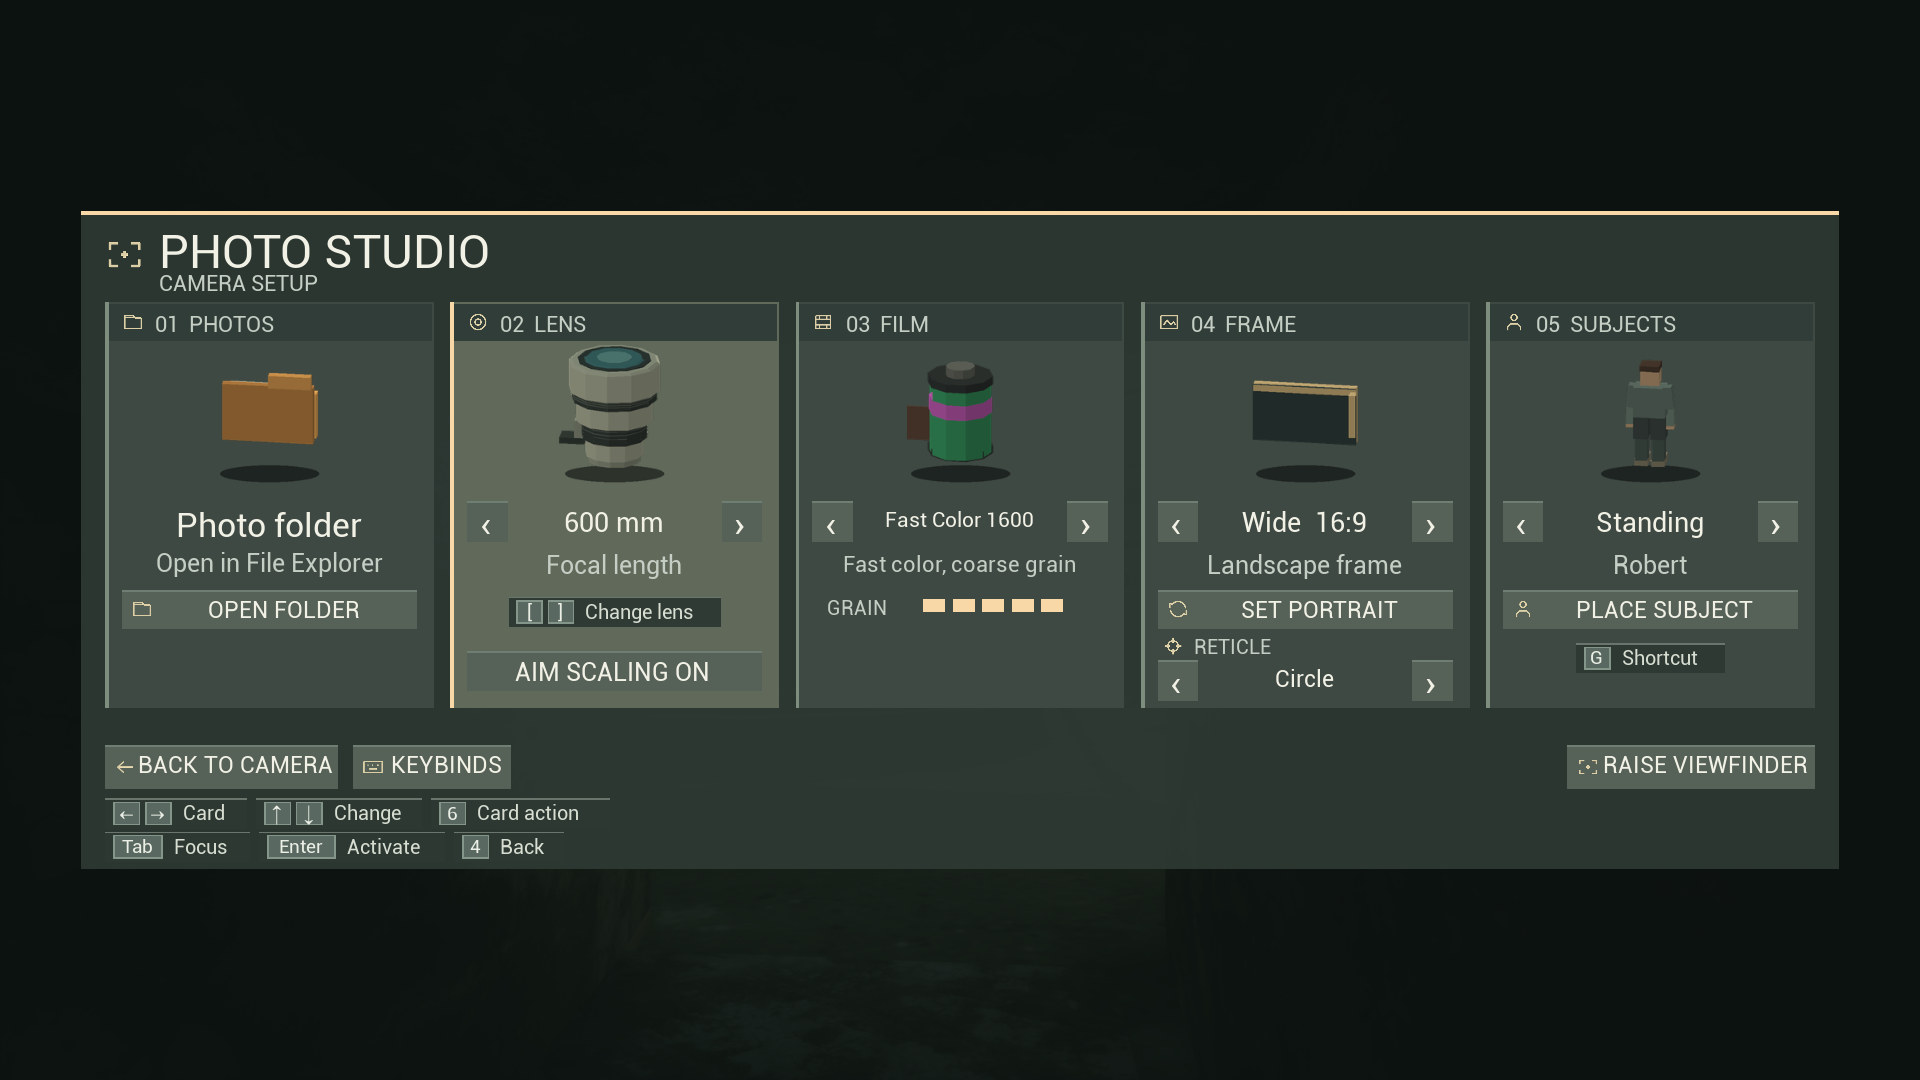
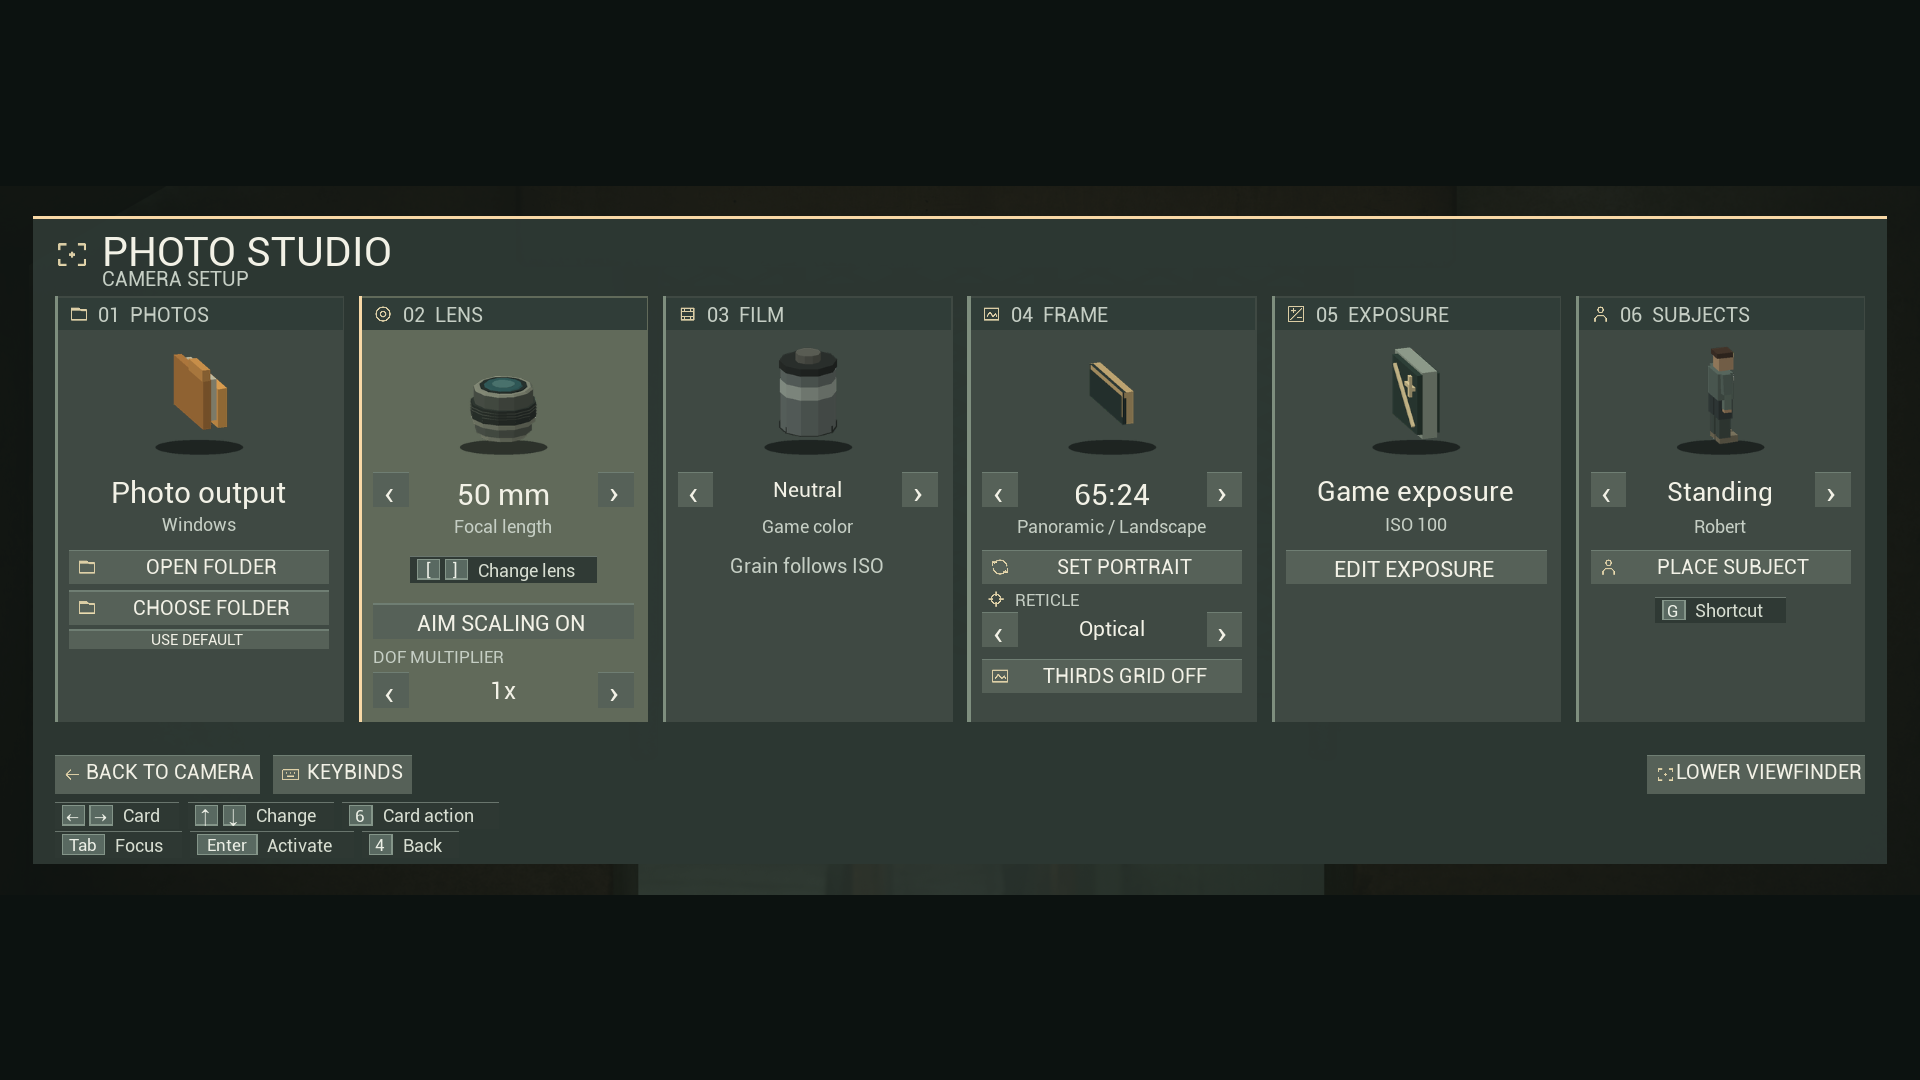
Prepare Photo Camera 1.1.0 release packages and guide

Changed region(s): [[0.0, 0.1833, 1.0, 0.8556], [0.4688, 0.7944, 0.5, 0.825]]

diff --git a/installer/Build-Release.py b/installer/Build-Release.py
@@ -1,0 +1,73 @@
+"""Package the release using the already-tested, bundled UE4SS archive."""
+
+import argparse
+import hashlib
+import re
+import zipfile
+from pathlib import Path
+
+
+def digest(data):
+    return hashlib.sha256(data).hexdigest().upper()
+
+
+def archive(path, entries):
+    with zipfile.ZipFile(path, 'w', compression=zipfile.ZIP_DEFLATED, compresslevel=9) as output:
+        for name, data in sorted(entries.items()):
+            info = zipfile.ZipInfo(name, (2026, 11, 11, 0, 0, 0))
+            info.compress_type = zipfile.ZIP_DEFLATED
+            info.external_attr = 0o100644 << 16
+            output.writestr(info, data, compresslevel=9)
+    with zipfile.ZipFile(path) as result:
+        assert result.testzip() is None, path
+        assert set(result.namelist()) == set(entries), path
+        for name, data in entries.items():
+            assert result.read(name) == data, name
+
+
+def main():
+    parser = argparse.ArgumentParser(description=__doc__)
+    parser.add_argument('--loader-bundle', type=Path, required=True,
+                        help='An existing installer ZIP containing the tested UE4SS archive')
+    parser.add_argument('--output', type=Path, required=True)
+    args = parser.parse_args()
+    root = Path(__file__).resolve().parents[1]
+    mod = root / 'ue4ss/Mods/VHOLUMEPhotoCamera'
+    files = sorted(p for p in mod.rglob('*') if p.is_file())
+    assert len(files) == 102, 'Unexpected release payload'
+    assert not any(p.is_symlink() or p.suffix.lower() not in ('.lua', '.png', '.mp4', '.ps1', '.txt') for p in files)
+    assert 'Photo Camera 1.1.0 ready' in (mod / 'Scripts/main.lua').read_text(encoding='utf-8')
+    args.output.mkdir(parents=True, exist_ok=True)
+    entries = {p.relative_to(root).as_posix(): p.read_bytes() for p in files}
+    entries['README.md'] = (root / 'GUIDE.md').read_bytes()
+    manual = args.output / 'VHOLUME-Photo-Camera.zip'
+    archive(manual, entries)
+
+    script_path = root / 'installer/Install-Photo-Camera.ps1'
+    script = script_path.read_text(encoding='utf-8-sig')
+    script, count = re.subn(r"(?m)^\$modHash = '[A-Fa-f0-9]{64}'",
+                            lambda _: "$modHash = '" + digest(manual.read_bytes()) + "'", script)
+    assert count == 1
+    loader_name = 'UE4SS_v3.0.1-1011-gb50986bd.zip'
+    with zipfile.ZipFile(args.loader_bundle) as source:
+        loader = source.read(loader_name)
+    assert digest(loader) in script, 'Bundled UE4SS hash mismatch'
+    script_path.write_bytes(script.encode('utf-8-sig'))
+    installer_entries = {
+        'Install Photo Camera.cmd': (root / 'installer/Install Photo Camera.cmd').read_bytes(),
+        'Install-Photo-Camera.ps1': script.encode('utf-8-sig'),
+        loader_name: loader,
+        manual.name: manual.read_bytes(),
+        'README.md': entries['README.md'],
+    }
+    installer = args.output / 'VHOLUME-Photo-Camera-Installer.zip'
+    archive(installer, installer_entries)
+    sums = ''.join(f'{digest(p.read_bytes())}  {p.name}\n' for p in (manual, installer))
+    (args.output / 'SHA256SUMS.txt').write_text(sums, encoding='utf-8')
+    (args.output / 'RELEASE-NOTES.md').write_bytes((root / 'RELEASE-NOTES.md').read_bytes())
+    print(f'Verified {len(files)} mod files, both archives, and the bundled UE4SS hash.')
+    print(sums, end='')
+
+
+if __name__ == '__main__':
+    main()

diff --git a/GUIDE.md b/GUIDE.md
@@ -1,0 +1,98 @@
+# VHOLUME Photo Camera Guide
+
+**Version 1.1.0** · Windows
+
+## Install and switch back
+
+Close VHOLUME. Extract the installer ZIP and run **Install Photo Camera.cmd**. It detects the Steam installation and moves any existing Photo Camera folder into a dated backup next to the UE4SS Mods folder.
+
+For a manual install, back up the existing mod outside **Mods**. Copy **VHOLUMEPhotoCamera** from the manual ZIP’s **ue4ss\Mods** into the game’s **VHOLUME\Binaries\Win64\ue4ss\Mods**. This update replaces the existing Photo Camera mod.
+
+To switch back, close the game, move the current **VHOLUMEPhotoCamera** folder out of **Mods**, then move the dated backup into **Mods** and rename it **VHOLUMEPhotoCamera**. You can also reinstall any earlier build from its ZIP. This version saves keybinds and options in **VHOLUMEPhotoCamera.keys.input-preview** and imports compatible settings from earlier previews or the stable build on first use.
+
+## Optical finder
+
+The raised finder reserves space on both sides for camera readouts, including at 16:9. At 1920 × 1080, the 3:2 frame is 1380 × 920 pixels and the 16:9 frame is 1440 × 810 pixels. A thin exposure scale is centered above the image with an amber pointer. The recessed LCD shows mode, shutter, aperture, ISO, and lens, with segmented numerals and shaded glass. Focus lamps sit at the bottom-left beside the LCD. Film and aspect information stay in the left sidebar; focus distance, subject distance, focus controls, and the lens blur multiplier stay in the matching right sidebar. Small muted labels sit above larger values, with controls grouped separately.
+
+Shortcuts appear directly in the labels for their settings and switch with the active input device. Keyboard labels reflect customized bindings. Hold a wheel modifier or controller shoulder button to highlight the settings it adjusts. Photo Studio’s Frame card offers the new Optical reticle alongside Square, Circle, and None.
+
+Toggle the rule-of-thirds guide using **Frame → Thirds Grid** in Photo Studio. In Studio, **LB / RB** move controller focus between buttons and **A** activates the focused button.
+
+Under **Lens → DOF Multiplier**, select **1x**, **2x**, **4x**, or **8x** to exaggerate out-of-focus lens blur. **1x** preserves the baseline. Higher multipliers widen the rendering aperture and allow larger blur kernels while keeping the displayed aperture, exposure, and focus distance unchanged. DOF must be enabled for the multiplier to take effect. The choice saves with the camera settings and works in every exposure mode.
+
+The Frame card offers **21:9 Ultrawide** and **65:24 Panoramic** alongside the existing formats, with matching rotating frame models. Both can rotate into portrait orientation. Captures preserve the selected ratio; wider ratios have shorter frames so the sidebars remain beside the image. The HUD is excluded from saved photos.
+
+## Screenshot folder
+
+In Photo Studio, select **Photos → Choose Folder** to open the Windows folder chooser. The chosen folder is checked for write access and saved for future sessions. **Open Folder** opens the current destination, and **Use Default** restores the game's screenshot directory. Instant photos and motion exposures both use this destination. Canceling the chooser keeps the previous folder.
+
+The Exposure card has a rotating low-poly +/− model. The exposure settings show a short hint for the hovered or focused control, with the selected mode as the default.
+
+## Exposure
+
+Press **5** or **controller View** to equip the camera and open Photo Studio. Select **Exposure → Edit Exposure**.
+
+| Mode | You set | The camera sets |
+| --- | --- | --- |
+| **Game** | Aperture for depth of field and ISO for grain. Shutter speed is display-only. | VHOLUME sets exposure as usual. |
+| **M** | Aperture, shutter speed, and ISO | ISO if Auto ISO is enabled |
+| **A** | Aperture and ISO if Auto ISO is off | Shutter speed and optional Auto ISO |
+| **S** | Shutter speed and ISO if Auto ISO is off | Aperture and optional Auto ISO |
+
+Game mode is the default. In M, A, and S, a wider aperture, slower shutter, or higher ISO brightens the image. Available settings cover f/1.0 to f/16, 8 seconds to 1/32000 second, and ISO 100 to 6400 in roughly one-third-stop steps. [Unreal Engine exposure documentation](https://dev.epicgames.com/documentation/en-us/unreal-engine/auto-exposure-in-unreal-engine)
+
+Enable **Auto ISO** to set minimum and maximum sensitivity. Aperture Priority prefers the configured minimum shutter speed and can slow down after reaching the ISO ceiling. The viewfinder marks camera-set values **AUTO** and shows exposure error in EV. Film looks set color and tone. The actual ISO determines grain strength and size, including with the Neutral look.
+
+### Intentional camera motion
+
+Raise the finder in **M** or **S** and set the shutter to **1/15 s or slower**. **Alt + wheel down** or **LB + D-pad left** slows the shutter. **A** also records motion when it meters a shutter speed in that range.
+
+Press **left-click** or **RT** once, then walk or pan while the finder shows **EXPOSING**. The mod locks focus and exposure at the start and blends scene samples as the camera moves. The completed photo saves as one PNG. Lower the finder or stow the camera to cancel an exposure. Game mode and faster shutter speeds use the instant capture path.
+
+Motion captures keep the selected aspect ratio and use up to 3840 pixels along the longer edge. Sample density depends on the game’s frame rate. [Unreal Engine scene capture documentation](https://dev.epicgames.com/documentation/en-us/unreal-engine/rendering-components-in-unreal-engine)
+
+## Keyboard and mouse
+
+Right-click raises or lowers the finder. Left-click takes a photo. Middle-click runs single-shot autofocus. **F** switches AF/MF. **4** opens Studio or goes back one level. The regular camera shortcuts remain available.
+
+| Hold while scrolling | Adjust |
+| --- | --- |
+| Nothing | Manual focus |
+| **Shift** | Fine manual focus |
+| **Ctrl** | Aperture |
+| **Alt** | Shutter speed |
+| **Ctrl + Alt** | Manual ISO |
+| **R** | Lens |
+| **U** | Exposure mode |
+| **Y** | Frame ratio |
+| **T** | Film look |
+
+The wheel chords apply with the finder raised. Change the four letter-key modifiers in **Keybinds → Wheel**. **Ctrl**, **Alt**, and their combination adjust aperture, shutter speed, and ISO. Use either **Shift** key for fine focus. In Studio, **Tab** navigates controls.
+
+A dedicated Enhanced Input context gives camera controls priority while the finder is raised. Movement and mouse-look mappings remain available, including movement remaps. The camera context is removed when the finder lowers, Studio or a game menu opens, the camera is stowed, or the level changes. Held camera keys must be released before their game actions can resume.
+
+**Ctrl** continues to reach the game for sliding while the finder is raised. **Ctrl + wheel** also adjusts aperture. LCD values keep padding around their edges and shrink to fit narrow portrait frames.
+
+## Controller
+
+The layout uses Xbox-style labels. The left stick moves and the right stick aims.
+
+| Input | Action |
+| --- | --- |
+| **View / LT / RT** | Equip or stow / raise or lower finder / take photo |
+| **A / X / B / Y** | Single-shot AF / AF or MF / depth of field / Photo Studio |
+| **L3** | Toggle slow walk in solo play |
+| **D-pad ← → / ↑ / ↓** | Previous or next lens / exposure mode / frame ratio |
+| **LB + D-pad ← → / ↑ ↓** | Slower or faster shutter / close or open aperture |
+| **RB + D-pad ← → / ↑ ↓** | Focus nearer or farther / raise or lower manual ISO |
+| **RB + A / B / X / Y** | Hold for fine focus / toggle Auto ISO / next film look / rotate frame |
+| **Studio D-pad / A / B** | Navigate or adjust / select / back |
+| **Subject placement RT / LT / D-pad ← → / ↑ / X** | Place / finish / rotate / change pose / undo |
+
+The game’s normal pause control still opens its menu. Photos save in **%LOCALAPPDATA%\VHOLUME\Saved\Screenshots\Windows**.
+
+## Compatibility and testing
+
+Tested with VHOLUME Steam build **26455274** and UE4SS **3.0.1-1011-gb50986bd**. Native checks covered exposure modes, Auto ISO, motion captures, input mapping restoration, panoramic output, the Studio UI, and stronger DOF. Offline checks covered 84 landscape/portrait finder layouts, exact crop ratios, settings compatibility, and renderer restoration.
+
+Controller logic was exercised with simulated button states. Physical controller detection and Steam Input mappings remain unverified. Motion capture sample density depends on game frame rate.

diff --git a/README.md b/README.md
@@ -1,6 +1,8 @@
 # VHOLUME Photo Camera
 
-A Windows photo mode for VHOLUME with a 35 mm viewfinder, interchangeable lenses, film looks, and manual focus.
+A Windows photo mode for VHOLUME with a 35 mm viewfinder, eight lenses, film looks, manual focus, and exposure controls.
+
+**Version 1.1.0** adds Game, Manual, Aperture Priority, and Shutter Priority exposure modes; Auto ISO; slow-shutter motion captures; controller controls; and a redesigned viewfinder. [Full controls guide](GUIDE.md)
 
 [Download the Windows installer ZIP](https://github.com/technicallyalex/vholume-photo-camera/releases/latest/download/VHOLUME-Photo-Camera-Installer.zip) · [Manual install ZIP](https://github.com/technicallyalex/vholume-photo-camera/releases/latest/download/VHOLUME-Photo-Camera.zip)
 
@@ -14,17 +16,23 @@ A Windows photo mode for VHOLUME with a 35 mm viewfinder, interchangeable lenses
 
 For a manual install, install UE4SS in `VHOLUME\Binaries\Win64` inside the game's Steam installation folder. Copy `VHOLUMEPhotoCamera` from the manual ZIP's `ue4ss\Mods` into the game's `VHOLUME\Binaries\Win64\ue4ss\Mods` folder. [UE4SS installation guide](https://docs.ue4ss.com/dev/installation-guide.html)
 
-Photos save to `%LOCALAPPDATA%\VHOLUME\Saved\Screenshots\Windows`. The ZIP includes the full controls and settings guide. Tested with VHOLUME Steam build **26455274** and UE4SS **3.0.1-1011-gb50986bd**.
+Photos save to `%LOCALAPPDATA%\VHOLUME\Saved\Screenshots\Windows` by default. Choose another destination in **Studio → Photos → Choose Folder**. Tested with VHOLUME Steam build **26455274** and UE4SS **3.0.1-1011-gb50986bd**. Physical controller hardware and Steam Input mappings remain unverified.
+
+## Camera controls
+
+Scroll to focus manually; hold **Shift** for fine focus. Hold **Ctrl**, **Alt**, or **Ctrl + Alt** while scrolling to change aperture, shutter speed, or ISO. **R + wheel** changes lenses, **T + wheel** changes film looks, **Y + wheel** changes aspect ratio, and **U + wheel** changes exposure mode. Rebind the letter modifiers in **Studio → Keybinds → Wheel**. Ctrl still lets you slide.
+
+Select **Lens → DOF Multiplier** for 1x, 2x, 4x, or 8x out-of-focus blur without changing exposure. The Frame card offers a thirds grid and seven ratios, including **21:9** and **65:24**, with portrait rotation.
 
 ## Photo Studio
 
-![Photo Studio showing the Photos, Lens, Film, Frame, and Subjects cards](examples/photo-studio.png)
+![Photo Studio with lens blur controls, panoramic framing, exposure, and subject placement](examples/photo-studio.png)
 
 ## Viewfinder in action
 
-![Raised viewfinder with a 24 mm lens, square reticle, and f/2.0 readout](examples/viewfinder-square-24mm.png)
+![Optical viewfinder with camera settings below the image and fixed sidebars](examples/viewfinder-optical.png)
 
-![Raised viewfinder framing a sunlit courtyard with a 35 mm lens and circle reticle](examples/viewfinder-circle-35mm.png)
+![Panoramic 65:24 framing with the sidebars beside the image](examples/viewfinder-panoramic.png)
 
 ## Example photos
 

diff --git a/RELEASE-NOTES.md b/RELEASE-NOTES.md
@@ -1,0 +1,20 @@
+# VHOLUME Photo Camera v1.1.0
+
+Exposure controls and a redesigned optical viewfinder, with settings and shortcuts built into the display.
+
+- Game, Manual, Aperture Priority, and Shutter Priority modes, plus Auto ISO with adjustable limits.
+- ISO-driven film grain and slow-shutter captures that blend camera movement into the photo.
+- A shaded LCD, clearer panel text, and fixed left/right sidebars, including at 16:9.
+- Lens DOF multipliers from 1x to 8x, a thirds grid, and new 21:9 and 65:24 formats.
+- Controller controls, editable wheel modifiers, and a selectable screenshot folder.
+- Camera input priority preserves movement, mouse look, and Ctrl sliding.
+
+Download **VHOLUME-Photo-Camera-Installer.zip**, close the game, extract it, and run **Install Photo Camera.cmd**. The installer detects Steam and backs up an existing Photo Camera installation. The manual ZIP is also available. Updating replaces the current mod in its existing slot; use the dated backup or an earlier release to switch back.
+
+Tested with VHOLUME Steam build **26455274** and UE4SS **3.0.1-1011-gb50986bd**. Physical controller hardware and Steam Input mappings remain unverified. Motion capture sample density depends on game frame rate.
+
+[Controls and settings](https://github.com/technicallyalex/vholume-photo-camera/blob/v1.1.0/GUIDE.md)
+
+![Photo Studio](https://raw.githubusercontent.com/technicallyalex/vholume-photo-camera/v1.1.0/examples/photo-studio.png)
+
+![Optical viewfinder](https://raw.githubusercontent.com/technicallyalex/vholume-photo-camera/v1.1.0/examples/viewfinder-optical.png)
